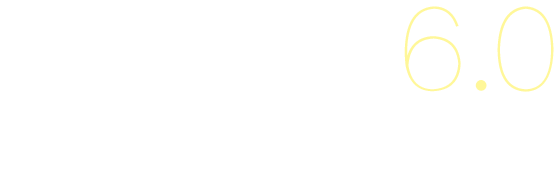
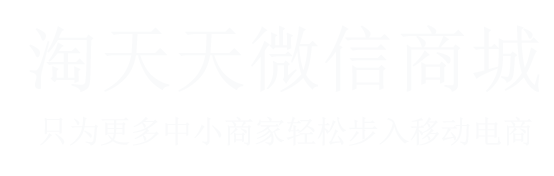
首页文字内容修改

diff --git a/SRC/tpl/Home/lanrain/css/style.css b/SRC/tpl/Home/lanrain/css/style.css
@@ -14,7 +14,7 @@ list-style:none
 h1,h2,h3,h4,h5,h6{
 font-weight:bold;font-size:100%
 }
-body,textarea,select,input{line-height:1.666;font-family:"Microsoft Yahei",verdana;font-size:12px;color:#000}.ua-noYahei body,.ua-noYahei textarea,.ua-noYahei select,.ua-noYahei input{font-family:verdana}table{border-collapse:collapse;border-spacing:0}.ico{display:inline-block;+display:inline;+zoom:1;vertical-align:middle}.navigation .item-active .flag,.ico{background-image:url(../img/dot.png);_background-image:url(../img/dot_ie6.gif);background-repeat:no-repeat}.ico-dot{background-position:0 0;width:11px;height:11px}.subTitle,.title{position:absolute;left:0;top:0;z-index:1}.title{visibility:hidden}.footernav,.section{background-image:url(../img/bgx.jpg);background-repeat:repeat-x;background-position:0 0}.section{border-bottom:1px solid #fff;width:100%;position:relative;z-index:10;overflow:hidden}.section-10{border:0}.section .inner{background-position:top center;height:850px;background-repeat:no-repeat;margin:0 auto;position:relative;+zoom:1;min-width:1024px}.section .inner .textArea{position:relative;+zoom:1;width:1024px;margin:0 auto}.section .subTopic{position:absolute;left:0;top:0;visibility:hidden}.section .topic,.section .desc{position:absolute;left:0;top:0;z-index:30}.section .topic{font-size:24px;line-height:normal}.section .modern{display:none}.section-1 .star-wrapper{display:none}.ua-notIE6 .star-wrapper{display:block}.ua-notIE6 .section-1 .title,.ua-notIE6 .section-1 .subTitle{z-index:4}.ua-notIE6 .section-1 .star{position:absolute;left:-288px;top:0;z-index:1}.ua-notIE6 .section-1 .star-2{left:-190px;top:761px;z-index:2}.ua-notIE6 .section-1 .star-3{left:-195px;top:850px;z-index:3}.ua-notIE6 .modern{display:block;position:relative;z-index:20;z-index:4}.ua-notIE6 .modern .img{position:absolute;visibility:visible;background-repeat:no-repeat}.ua-notIE6 .section-1 .modern .logo{width:375px;height:26px;left:325px;top:29px}.ua-notIE6 .section-1 .title{width:554px;height:176px;left:237px;top:197px;visibility:visible;text-align:center}.ua-notIE6 .section-1 .title img{width:1108px;height:352px;margin-left:-50%;margin-top:-88px;display:none;position:relative}.ua-notIE6 .section-2 .modern .title{width:512px;height:45px;left:255px;top:174px}.ua-notIE6 .section-2 .modern .pic1{width:233px;height:250px;left:-95px;top:425px}.ua-notIE6 .section-2 .modern .pic2{width:211px;height:299px;left:839px;top:365px}.ua-notIE6 .section-2 .modern .pic3{width:819px;height:325px;left:103px;top:412px}.ua-notIE6 .section-3 .modern .title{width:513px;height:45px;left:254px;top:192px}.ua-notIE6 .section-3 .modern .pic1{width:322px;height:143px;left:700px;top:707px;z-index:5}.ua-notIE6 .section-3 .modern .pic2{width:53px;height:71px;left:605px;top:403px;z-index:4}.ua-notIE6 .section-3 .modern .pic3{width:441px;height:380px;left:504px;top:470px;z-index:3}.ua-notIE6 .section-3 .modern .pic4{width:892px;height:472px;left:230px;top:304px;z-index:2}.ua-notIE6 .section-4 .modern .title{width:512px;height:45px;left:255px;top:188px}.ua-notIE6 .section-4 .modern .pic1{width:1019px;height:248px;left:-10px;top:427px;z-index:3}.ua-notIE6 .section-4 .modern .pic2{width:1156px;height:449px;left:-46px;top:300px;z-index:2}.ua-notIE6 .section-4 .modern .pic3{width:1228px;height:372px;left:-109px;top:367px;z-index:1}.ua-notIE6 .section-5 .modern .title{width:511px;height:44px;left:255px;top:193px}.ua-notIE6 .section-5 .modern .pic1{width:162px;height:182px;left:7px;top:354px}.ua-notIE6 .section-5 .modern .pic2{width:172px;height:178px;left:281px;top:360px}.ua-notIE6 .section-5 .modern .pic3{width:169px;height:179px;left:562px;top:359px}.ua-notIE6 .section-5 .modern .pic4{width:162px;height:173px;left:843px;top:364px}.ua-notIE6 .section-6 .modern .title{width:561px;height:44px;left:231px;top:207px}.ua-notIE6 .section-6 .modern .pic1{width:597px;height:284px;left:-4px;top:373px;z-index:2}.ua-notIE6 .section-6 .modern .pic2{width:1101px;height:545px;left:-24px;top:0}.ua-notIE6 .section-7 .modern .title{width:561px;height:44px;left:230px;top:207px}.ua-notIE6 .section-7 .modern .pic1{width:651px;height:231px;left:-57px;top:496px;z-index:2}.ua-notIE6 .section-7 .modern .pic2{width:1600px;height:209px;bottom:-850px;left:-288px;z-index:3}.ua-notIE6 .section-7 .modern .pic3{width:699px;height:201px;left:-115px;top:462px;z-index:1}.ua-notIE6 .section-7 .modern .pic4{width:182px;height:206px;left:304px;top:362px;z-index:1}.ua-notIE6 .section-8 .modern .title{width:561px;height:44px;left:230px;top:214px}.ua-notIE6 .section-8 .modern .pic1{width:1073px;height:215px;left:-23px;top:552px}.ua-notIE6 .section-8 .modern .pic2{width:164px;height:117px;left:239px;top:490px}.ua-notIE6 .section-8 .modern .pic3{width:70px;height:29px;left:88px;top:464px}.ua-notIE6 .section-8 .modern .pic4{width:43px;height:26px;left:5px;top:430px}.ua-notIE6 .section-9 .modern .yixin{width:89px;height:90px;left:-108px;top:-46px}.ua-notIE6 .section-9 .modern .title{width:609px;height:45px;left:260px;top:174px}.ua-notIE6 .section-9 .modern .pic1{width:241px;height:311px;left:-53px;top:341px}.ua-notIE6 .section-9 .modern .pic2{width:264px;height:303px;left:366px;top:340px}.ua-notIE6 .section-9 .modern .pic3{width:325px;height:311px;left:763px;top:341px}.ua-notIE6 .section-10 .modern .title-1{width:465px;height:79px;left:281px;top:225px}.ua-notIE6 .section-10 .modern .title-2{width:555px;height:37px;left:235px;top:334px}.ua-notIE6 .section-10 .modern .pic{width:1274px;height:548px;left:-123px;top:46px}.ua-notIE6 .section-10 .modern .btn{width:254px;height:70px;left:385px;top:439px;z-index:10}.logo a{position:absolute;display:block;top:30px;z-index:30}.logo .mail163{left:325px}.logo .mail126{left:454px}.logo .mailyeah{left:584px}.section-1 .subTitle{width:590px;text-align:left;left:239px;top:416px;line-height:1.8;color:#94a7c6;font-size:14px;font-weight:normal}.ua-notIE6 .section-1 .subTitle p,.ua-notIE6 .section-1 .modern .logo,.ua-notIE6 .section-1 .slogan{display:none}.section-2{color:#748a9e}.section-2 .topic{left:256px;top:124px}.section-2 .desc{color:#727f8c;width:510px;left:256px;top:254px;font-size:16px;line-height:1.9}.section-3{color:#c9c87d}.section-3 .topic{left:256px;top:144px}.section-3 .desc{color:#fffde1;width:430px;left:30px;top:378px;font-size:16px;line-height:1.9}.section-4{color:#a0b4cb}.section-4 .topic{left:256px;top:138px}.section-4 .desc{color:#798fa6;width:510px;left:257px;top:267px;font-size:16px;line-height:1.9}.section-5{color:#999fac}.section-5 .topic{left:254px;top:144px}.section-5 .desc{color:#fff;font-size:14px;line-height:24px}.section-5 .desc h4{font-size:23px;line-height:normal;margin-bottom:12px;font-weight:normal}.section-5 .desc-1{width:208px;left:-3px;top:560px}.section-5 .desc-2{width:205px;left:279px;top:560px}.section-5 .desc-3{width:203px;left:562px;top:560px}.section-5 .desc-4{width:205px;left:838px;top:560px}.section-6{color:#70877e}.section-6 .topic{left:233px;top:157px}.section-6 .desc{color:#5c7970;width:447px;left:606px;top:435px;font-size:16px;line-height:1.9}.section-6 .desc p{margin-bottom:17px}.section-7{color:#969ba0}.section-7 .topic{left:226px;top:159px}.section-7 .desc{color:#eaeff2;width:420px;left:599px;top:365px;font-size:16px;line-height:1.9}.section-7 .desc p{margin-bottom:27px}.section-8{color:#5f7588}.section-8 .topic{left:234px;top:173px}.section-8 .desc{color:#566775;width:565px;left:233px;top:332px;font-size:16px;line-height:1.9}.section-9{color:#43efca}.section-9 .topic{left:261px;top:129px}.section-9 .desc{color:#fff;font-size:16px;line-height:26px}.section-9 .desc .bdr{position:absolute;height:68px;font-size:0;line-height:0;border-right:1px solid #13ab86}.section-9 .desc-1{width:250px;left:-4px;top:687px}.section-9 .desc-1 .bdr{left:290px;top:2px}.section-9 .desc-2{width:250px;left:401px;top:687px}.section-9 .desc-3{width:250px;left:833px;top:687px}.section-9 .desc-3 .bdr{left:-106px;top:2px}.section-10 .try{position:absolute;left:384px;top:439px;line-height:0;font-size:0;z-index:50}.ua-notIE6 .section-10 .try{display:none}.navigation .item .text{-webkit-transition-property:all;-moz-transition-property:all;-ms-transition-property:all;-o-transition-property:all;transition-property:all;-webkit-transition-duration:.3s;-moz-transition-duration:.3s;-ms-transition-duration:.3s;-o-transition-duration:.3s;transition-duration:.3s}.navigation{position:fixed;_position:absolute;top:50%;z-index:30;right:30px}.navigation ul{margin-top:-107px}.navigation a{text-decoration:none;color:#8f9da4}.navigation .item{text-align:left;position:relative;+zoom:1;line-height:normal;margin:10px 0;padding-right:25px;cursor:pointer;width:62px}.navigation .item .text{opacity:1;filter:alpha(opacity=0);position:relative;top:1px}.ua-ie8 .navigation .item .text,.ua-ie7 .navigation .item .text,.ua-ie6 .navigation .item .text{visibility:hidden}.navigation .item-hover .text,.navigation .item:hover .text{opacity:1;filter:alpha(Opacity=100)}.ua-ie8 .navigation .item-hover .text,.ua-ie7 .navigation .item-hover .text,.ua-ie6 .navigation .item-hover .text{visibility:visible}.navigation .item .flag{position:absolute;right:0;top:-2px;width:21px;height:21px;cursor:pointer}.ua-ie7 .navigation .item .flag{top:-5px}.navigation .item .flag .ico{position:absolute;left:5px;top:5px}.navigation .item-active .flag{background-position:0 -16px}.footernav{text-align:center;height:70px;line-height:normal;color:#a0a0a0;padding-top:48px;background:#fff}.footernav a{margin-left:14px;color:#a0a0a0;text-decoration:none}.footernav a:hover{text-decoration:underline}.footernav .copyright{margin-left:14px}.section-1{background-position:0 0;background-color:#000;color:#94a7c6}.section-2{background-position:0 -851px}.section-3{background-position:0 -1702px}.section-4{background-position:0 -2553px}.section-5{background-position:0 -3404px}.section-6{background-position:0 -4255px}.section-7{background-position:0 -5106px}.section-8{background-position:0 -5957px}.section-9{background-position:0 -6808px}.section-10{background-position:0 -7659px}.animation-breath{-webkit-animation:breath 1.5s infinite;-moz-animation:breath 1.5s infinite;-ms-animation:breath 1.5s infinite;-o-animation:breath 1.5s infinite;animation:breath 1.5s infinite}.animation-breath2{-webkit-animation:breath 1.6s infinite;-moz-animation:breath 1.6s infinite;-ms-animation:breath 1.6s infinite;-o-animation:breath 1.6s infinite;animation:breath 1.6s infinite}.animation-breath3{-webkit-animation:breath 2s infinite;-moz-animation:breath 2s infinite;-ms-animation:breath 2s infinite;-o-animation:breath 2s infinite;animation:breath 2s infinite}@-webkit-keyframes 'breath'{from{opacity:1}50%{opacity:.3}to{opacity:1}}@-moz-keyframes 'breath'{from{opacity:1}50%{opacity:.3}to{opacity:1}}@-ms-keyframes 'breath'{from{opacity:1}50%{opacity:.3}to{opacity:1}}@-o-keyframes 'breath'{from{opacity:1}50%{opacity:.3}to{opacity:1}}@keyframes 'breath'{from{opacity:1}50%{opacity:.3}to{opacity:1}}.animation-scale:hover{-webkit-animation:'scale' .3s linear}@-webkit-keyframes 'scale'{0%{-webkit-transform:scale(1,1)}60%{-webkit-transform:scale(0.9,0.82)}100%{-webkit-transform:scale(1.,1)}}@-moz-keyframes 'scale'{0%{-webkit-transform:scale(1,1)}60%{-webkit-transform:scale(0.9,0.82)}100%{-webkit-transform:scale(1.,1)}}@-ms-keyframes 'scale'{0%{-webkit-transform:scale(1,1)}60%{-webkit-transform:scale(0.9,0.82)}100%{-webkit-transform:scale(1.,1)}}@-o-keyframes 'scale'{0%{-webkit-transform:scale(1,1)}60%{-webkit-transform:scale(0.9,0.82)}100%{-webkit-transform:scale(1.,1)}}@keyframes 'scale'{0%{-webkit-transform:scale(1,1)}60%{-webkit-transform:scale(0.9,0.82)}100%{-webkit-transform:scale(1.,1)}}
+body,textarea,select,input{line-height:1.666;font-family:"Microsoft Yahei",verdana;font-size:12px;color:#000}.ua-noYahei body,.ua-noYahei textarea,.ua-noYahei select,.ua-noYahei input{font-family:verdana}table{border-collapse:collapse;border-spacing:0}.ico{display:inline-block;+display:inline;+zoom:1;vertical-align:middle}.navigation .item-active .flag,.ico{background-image:url(../img/dot.png);_background-image:url(../img/dot_ie6.gif);background-repeat:no-repeat}.ico-dot{background-position:0 0;width:11px;height:11px}.subTitle,.title{position:absolute;left:0;top:0;z-index:1}.title{visibility:hidden}.footernav,.section{background-image:url(../img/bgx.jpg);background-repeat:repeat-x;background-position:0 0}.section{border-bottom:1px solid #fff;width:100%;position:relative;z-index:10;overflow:hidden}.section-10{border:0}.section .inner{background-position:top center;height:850px;background-repeat:no-repeat;margin:0 auto;position:relative;+zoom:1;min-width:1024px}.section .inner .textArea{position:relative;+zoom:1;width:1024px;margin:0 auto}.section .subTopic{position:absolute;left:0;top:0;visibility:hidden}.section .topic,.section .desc{position:absolute;left:0;top:0;z-index:30}.section .topic{font-size:24px;line-height:normal}.section .modern{display:none}.section-1 .star-wrapper{display:none}.ua-notIE6 .star-wrapper{display:block}.ua-notIE6 .section-1 .title,.ua-notIE6 .section-1 .subTitle{z-index:4}.ua-notIE6 .section-1 .star{position:absolute;left:-288px;top:0;z-index:1}.ua-notIE6 .section-1 .star-2{left:-190px;top:761px;z-index:2}.ua-notIE6 .section-1 .star-3{left:-195px;top:850px;z-index:3}.ua-notIE6 .modern{display:block;position:relative;z-index:20;z-index:4}.ua-notIE6 .modern .img{position:absolute;visibility:visible;background-repeat:no-repeat}.ua-notIE6 .section-1 .modern .logo{width:375px;height:26px;left:325px;top:29px}.ua-notIE6 .section-1 .title{width:554px;height:176px;left:195px;top:197px;visibility:visible;text-align:center}.ua-notIE6 .section-1 .title img{width:1108px;height:352px;margin-left:-50%;margin-top:-88px;display:none;position:relative}.ua-notIE6 .section-2 .modern .title{width:512px;height:45px;left:255px;top:174px}.ua-notIE6 .section-2 .modern .pic1{width:233px;height:250px;left:-95px;top:425px}.ua-notIE6 .section-2 .modern .pic2{width:211px;height:299px;left:839px;top:365px}.ua-notIE6 .section-2 .modern .pic3{width:819px;height:325px;left:103px;top:412px}.ua-notIE6 .section-3 .modern .title{width:513px;height:45px;left:254px;top:192px}.ua-notIE6 .section-3 .modern .pic1{width:322px;height:143px;left:700px;top:707px;z-index:5}.ua-notIE6 .section-3 .modern .pic2{width:53px;height:71px;left:605px;top:403px;z-index:4}.ua-notIE6 .section-3 .modern .pic3{width:441px;height:380px;left:504px;top:470px;z-index:3}.ua-notIE6 .section-3 .modern .pic4{width:892px;height:472px;left:230px;top:304px;z-index:2}.ua-notIE6 .section-4 .modern .title{width:512px;height:45px;left:255px;top:188px}.ua-notIE6 .section-4 .modern .pic1{width:1019px;height:248px;left:-10px;top:427px;z-index:3}.ua-notIE6 .section-4 .modern .pic2{width:1156px;height:449px;left:-46px;top:300px;z-index:2}.ua-notIE6 .section-4 .modern .pic3{width:1228px;height:372px;left:-109px;top:367px;z-index:1}.ua-notIE6 .section-5 .modern .title{width:511px;height:44px;left:255px;top:193px}.ua-notIE6 .section-5 .modern .pic1{width:162px;height:182px;left:7px;top:354px}.ua-notIE6 .section-5 .modern .pic2{width:172px;height:178px;left:281px;top:360px}.ua-notIE6 .section-5 .modern .pic3{width:169px;height:179px;left:562px;top:359px}.ua-notIE6 .section-5 .modern .pic4{width:162px;height:173px;left:843px;top:364px}.ua-notIE6 .section-6 .modern .title{width:561px;height:44px;left:231px;top:207px}.ua-notIE6 .section-6 .modern .pic1{width:597px;height:284px;left:-4px;top:373px;z-index:2}.ua-notIE6 .section-6 .modern .pic2{width:1101px;height:545px;left:-24px;top:0}.ua-notIE6 .section-7 .modern .title{width:561px;height:44px;left:230px;top:207px}.ua-notIE6 .section-7 .modern .pic1{width:651px;height:231px;left:-57px;top:496px;z-index:2}.ua-notIE6 .section-7 .modern .pic2{width:1600px;height:209px;bottom:-850px;left:-288px;z-index:3}.ua-notIE6 .section-7 .modern .pic3{width:699px;height:201px;left:-115px;top:462px;z-index:1}.ua-notIE6 .section-7 .modern .pic4{width:182px;height:206px;left:304px;top:362px;z-index:1}.ua-notIE6 .section-8 .modern .title{width:561px;height:44px;left:230px;top:214px}.ua-notIE6 .section-8 .modern .pic1{width:1073px;height:215px;left:-23px;top:552px}.ua-notIE6 .section-8 .modern .pic2{width:164px;height:117px;left:239px;top:490px}.ua-notIE6 .section-8 .modern .pic3{width:70px;height:29px;left:88px;top:464px}.ua-notIE6 .section-8 .modern .pic4{width:43px;height:26px;left:5px;top:430px}.ua-notIE6 .section-9 .modern .yixin{width:89px;height:90px;left:-108px;top:-46px}.ua-notIE6 .section-9 .modern .title{width:609px;height:45px;left:260px;top:174px}.ua-notIE6 .section-9 .modern .pic1{width:241px;height:311px;left:-53px;top:341px}.ua-notIE6 .section-9 .modern .pic2{width:264px;height:303px;left:366px;top:340px}.ua-notIE6 .section-9 .modern .pic3{width:325px;height:311px;left:763px;top:341px}.ua-notIE6 .section-10 .modern .title-1{width:465px;height:79px;left:281px;top:225px}.ua-notIE6 .section-10 .modern .title-2{width:555px;height:37px;left:235px;top:334px}.ua-notIE6 .section-10 .modern .pic{width:1274px;height:548px;left:-123px;top:46px}.ua-notIE6 .section-10 .modern .btn{width:254px;height:70px;left:385px;top:439px;z-index:10}.logo a{position:absolute;display:block;top:30px;z-index:30}.logo .mail163{left:325px}.logo .mail126{left:454px}.logo .mailyeah{left:584px}.section-1 .subTitle{width:590px;text-align:left;left:239px;top:416px;line-height:1.8;color:#94a7c6;font-size:14px;font-weight:normal}.ua-notIE6 .section-1 .subTitle p,.ua-notIE6 .section-1 .modern .logo,.ua-notIE6 .section-1 .slogan{display:none}.section-2{color:#748a9e}.section-2 .topic{left:256px;top:124px}.section-2 .desc{color:#727f8c;width:510px;left:256px;top:254px;font-size:16px;line-height:1.9}.section-3{color:#c9c87d}.section-3 .topic{left:256px;top:144px}.section-3 .desc{color:#fffde1;width:430px;left:30px;top:378px;font-size:16px;line-height:1.9}.section-4{color:#a0b4cb}.section-4 .topic{left:256px;top:138px}.section-4 .desc{color:#798fa6;width:510px;left:257px;top:267px;font-size:16px;line-height:1.9}.section-5{color:#999fac}.section-5 .topic{left:254px;top:144px}.section-5 .desc{color:#fff;font-size:14px;line-height:24px}.section-5 .desc h4{font-size:23px;line-height:normal;margin-bottom:12px;font-weight:normal}.section-5 .desc-1{width:208px;left:-3px;top:560px}.section-5 .desc-2{width:205px;left:279px;top:560px}.section-5 .desc-3{width:203px;left:562px;top:560px}.section-5 .desc-4{width:205px;left:838px;top:560px}.section-6{color:#70877e}.section-6 .topic{left:233px;top:157px}.section-6 .desc{color:#5c7970;width:447px;left:606px;top:435px;font-size:16px;line-height:1.9}.section-6 .desc p{margin-bottom:17px}.section-7{color:#969ba0}.section-7 .topic{left:226px;top:159px}.section-7 .desc{color:#eaeff2;width:420px;left:599px;top:365px;font-size:16px;line-height:1.9}.section-7 .desc p{margin-bottom:27px}.section-8{color:#5f7588}.section-8 .topic{left:234px;top:173px}.section-8 .desc{color:#566775;width:565px;left:233px;top:332px;font-size:16px;line-height:1.9}.section-9{color:#43efca}.section-9 .topic{left:261px;top:129px}.section-9 .desc{color:#fff;font-size:16px;line-height:26px}.section-9 .desc .bdr{position:absolute;height:68px;font-size:0;line-height:0;border-right:1px solid #13ab86}.section-9 .desc-1{width:250px;left:-4px;top:687px}.section-9 .desc-1 .bdr{left:290px;top:2px}.section-9 .desc-2{width:250px;left:401px;top:687px}.section-9 .desc-3{width:250px;left:833px;top:687px}.section-9 .desc-3 .bdr{left:-106px;top:2px}.section-10 .try{position:absolute;left:384px;top:439px;line-height:0;font-size:0;z-index:50}.ua-notIE6 .section-10 .try{display:none}.navigation .item .text{-webkit-transition-property:all;-moz-transition-property:all;-ms-transition-property:all;-o-transition-property:all;transition-property:all;-webkit-transition-duration:.3s;-moz-transition-duration:.3s;-ms-transition-duration:.3s;-o-transition-duration:.3s;transition-duration:.3s}.navigation{position:fixed;_position:absolute;top:50%;z-index:30;right:30px}.navigation ul{margin-top:-107px}.navigation a{text-decoration:none;color:#8f9da4}.navigation .item{text-align:left;position:relative;+zoom:1;line-height:normal;margin:10px 0;padding-right:25px;cursor:pointer;width:62px}.navigation .item .text{opacity:1;filter:alpha(opacity=0);position:relative;top:1px}.ua-ie8 .navigation .item .text,.ua-ie7 .navigation .item .text,.ua-ie6 .navigation .item .text{visibility:hidden}.navigation .item-hover .text,.navigation .item:hover .text{opacity:1;filter:alpha(Opacity=100)}.ua-ie8 .navigation .item-hover .text,.ua-ie7 .navigation .item-hover .text,.ua-ie6 .navigation .item-hover .text{visibility:visible}.navigation .item .flag{position:absolute;right:0;top:-2px;width:21px;height:21px;cursor:pointer}.ua-ie7 .navigation .item .flag{top:-5px}.navigation .item .flag .ico{position:absolute;left:5px;top:5px}.navigation .item-active .flag{background-position:0 -16px}.footernav{text-align:center;height:70px;line-height:normal;color:#a0a0a0;padding-top:48px;background:#fff}.footernav a{margin-left:14px;color:#a0a0a0;text-decoration:none}.footernav a:hover{text-decoration:underline}.footernav .copyright{margin-left:14px}.section-1{background-position:0 0;background-color:#000;color:#94a7c6}.section-2{background-position:0 -851px}.section-3{background-position:0 -1702px}.section-4{background-position:0 -2553px}.section-5{background-position:0 -3404px}.section-6{background-position:0 -4255px}.section-7{background-position:0 -5106px}.section-8{background-position:0 -5957px}.section-9{background-position:0 -6808px}.section-10{background-position:0 -7659px}.animation-breath{-webkit-animation:breath 1.5s infinite;-moz-animation:breath 1.5s infinite;-ms-animation:breath 1.5s infinite;-o-animation:breath 1.5s infinite;animation:breath 1.5s infinite}.animation-breath2{-webkit-animation:breath 1.6s infinite;-moz-animation:breath 1.6s infinite;-ms-animation:breath 1.6s infinite;-o-animation:breath 1.6s infinite;animation:breath 1.6s infinite}.animation-breath3{-webkit-animation:breath 2s infinite;-moz-animation:breath 2s infinite;-ms-animation:breath 2s infinite;-o-animation:breath 2s infinite;animation:breath 2s infinite}@-webkit-keyframes 'breath'{from{opacity:1}50%{opacity:.3}to{opacity:1}}@-moz-keyframes 'breath'{from{opacity:1}50%{opacity:.3}to{opacity:1}}@-ms-keyframes 'breath'{from{opacity:1}50%{opacity:.3}to{opacity:1}}@-o-keyframes 'breath'{from{opacity:1}50%{opacity:.3}to{opacity:1}}@keyframes 'breath'{from{opacity:1}50%{opacity:.3}to{opacity:1}}.animation-scale:hover{-webkit-animation:'scale' .3s linear}@-webkit-keyframes 'scale'{0%{-webkit-transform:scale(1,1)}60%{-webkit-transform:scale(0.9,0.82)}100%{-webkit-transform:scale(1.,1)}}@-moz-keyframes 'scale'{0%{-webkit-transform:scale(1,1)}60%{-webkit-transform:scale(0.9,0.82)}100%{-webkit-transform:scale(1.,1)}}@-ms-keyframes 'scale'{0%{-webkit-transform:scale(1,1)}60%{-webkit-transform:scale(0.9,0.82)}100%{-webkit-transform:scale(1.,1)}}@-o-keyframes 'scale'{0%{-webkit-transform:scale(1,1)}60%{-webkit-transform:scale(0.9,0.82)}100%{-webkit-transform:scale(1.,1)}}@keyframes 'scale'{0%{-webkit-transform:scale(1,1)}60%{-webkit-transform:scale(0.9,0.82)}100%{-webkit-transform:scale(1.,1)}}
 .navigation ul li{
 list-style-type:disc
 }

diff --git a/SRC/tpl/Home/lanrain/Index_index.html b/SRC/tpl/Home/lanrain/Index_index.html
@@ -163,7 +163,7 @@ margin-left: 15px;
                 <div class="desc" style="top: 254px;">灵活支持支付宝、微信支付等支付方式。同时也可以使用个人支付宝收款，解决部分个体工商户、淘宝卖家无法申请微信支付难题，根本上解决商家收款难题。</div>
                 <!-- modern -->
                 <div class="imgList modern">
-                    <div class="img title" data-bg="title.png" style="background-image: url(http://mimg.127.net/hd/all2/140115_ntesmail6/lib/img/section2/title.png); top: 174px;"></div>
+                    <div class="img title" data-bg="title.png" style="background-image: url(./tpl/Home/lanrain/css/title_1.png); top: 174px;"></div>
                     <div class="img pic1" data-bg="pic_1.png" style="background-image: url(http://mimg.127.net/hd/all2/140115_ntesmail6/lib/img/section2/pic_1.png); left: -95px; opacity: 1;"></div>
                     <div class="img pic2" data-bg="pic_2.png" style="background-image: url(http://mimg.127.net/hd/all2/140115_ntesmail6/lib/img/section2/pic_2.png); left: 839px; opacity: 1;"></div>
                     <div class="img pic3" data-bg="pic_3.png" style="background-image: url(http://mimg.127.net/hd/all2/140115_ntesmail6/lib/img/section2/pic_3.png); top: 412px; opacity: 1;"></div>
@@ -318,18 +318,14 @@ margin-left: 15px;
                 <h3 class="subTopic">付款无障碍，多方式付款</h3>
                 <div class="desc desc-1" data-default="false">
                     <div class="bdr"></div>
-                    <p>微信支付<br>让你安心安全的<br>做线上、线下结合的购买</p>
+                    <p>认同微信商场的产品服务及运营模式</p>
                 </div>
                 <div class="desc desc-2" data-default="false">
-                    <p>支付宝个人转账b<br>网上支付，减少<br>支付步骤。</p>
+                    <p>有一定的市场开发及运营经验，有独立开发市场的能力</p>
                 </div>
                 <div class="desc desc-3" data-default="false">
                     <div class="bdr"></div>
-                    <p>网上银行支付<br>不用出门，只需要一台电脑<br>让你想要的东西送到家</p>
-                     <p>1.认同微信商场的产品服务及运营模式</p>
-                    <p>2.热爱移动互联网行业。</p>
-                    <p>3.有一定的市场开发及运营经验，有独立开发市场的能力。</p>
-                    <p>4.有自己独立的开发场所及营销团队</p>
+                    <p>有自己独立的开发场所及营销团队</p>
                 </div>
                 <!-- modern -->
                 <div class="imgList modern">
